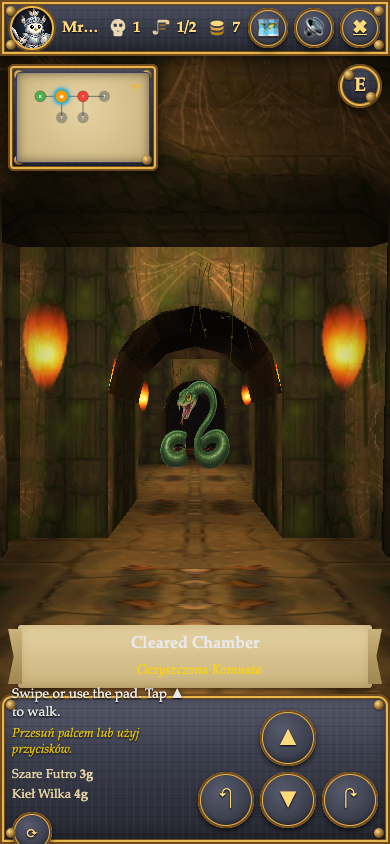
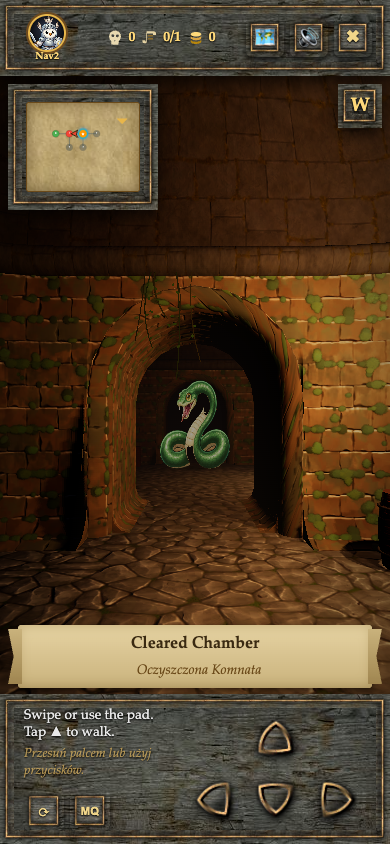
Docs: first-person lighting, textures and quality tiers; new screenshots; 3dtextures.me in the asset survey

diff --git a/docs/asset-libraries.md b/docs/asset-libraries.md
@@ -42,6 +42,7 @@ Style caveat: most fully-free packs are pixel art. Pixel tiles work for the isom
 |---|---|---|---|---|---|
 | ambientCG (all assets) | https://ambientcg.com (licence: https://docs.ambientcg.com/license/) | Creative Commons CC0 1.0 Universal ("may also include raw files directly in projects like video games") | Seamless PBR sets, JPG/PNG at 1K–16K. Verified examples: Bricks075A (photogrammetry stone/brick wall, 1K–16K), Lava004 (procedural seamless lava, 1K–8K). Also PavingStones*, Rock*, WoodPlanks*. | Direct source for `wall.png`, `floor.png`, `ceiling.png` and a lava texture; downscale 1K colour map to 512x512 and colour-grade to grey-blue. | None required (optional "Created using <asset> from ambientCG.com, licensed under CC0 1.0"). |
 | Poly Haven textures | https://polyhaven.com/textures (licence: https://polyhaven.com/license) | CC0 ("use our assets for any purpose, including commercial work") | PBR sets 1K–8K/16K in JPG/PNG/EXR + Blend/glTF. Verified: Castle Wall Slates (Rob Tuytel, 1K–8K, diffuse/normal/rough/AO/disp). Also Castle Wall Variation, Stone Brick Wall 001, Stone Block Wall, Brick & Block and Stone > Walls & Rubble categories. | Same use as ambientCG; castle-wall sets are the most "dungeon" looking. | None required. |
+| 3dtextures.me stylised textures (João Paulo "Gendo") | https://3dtextures.me (licence: https://3dtextures.me/about/) | CC0 ("All textures on this site are licensed as CC0"); checked 17 Sep 2026 | Hand-painted-look PBR sets (basecolor, normal, roughness, AO, height; mostly 1024 px) downloadable one by one from linked Google Drive folders. Dungeon fits: Stylized Stone Wall 001, Stylized Bricks 004 (mossy), Stylized Stone Floor 005/006, Stylized Wood Planks 002, Stylized Lava 001. Newer sets move to stylizedtextures.com. | **In use** by the first-person prototype (`www/assets/proto/fp/`, credits in `LICENSE.md` there): the painted look matches the monster art far better than photo textures. | None required (credited anyway). |
 | RPG Stone Wall Texture (ForKotLow) | https://opengameart.org/content/rpg-stone-wall-texture | CC0 | Single 512x512 seamless JPG (270 KB). | Drop-in `wall.png` candidate at the exact prototype size. | None required. |
 | Kenney – Isometric Miniature Dungeon (props) | see above | CC0 | Doors, gates, stairs, barrels. | Source for a gate/arch cut-out to build `gate_dragon.png`. | None. |
 | 117 Stone Wall Tilable Textures in 8 Themes (p0ss) | https://opengameart.org/content/117-stone-wall-tilable-textures-in-8-themes | **GPL 2.0 (viral)** | 117 stone wall/floor textures at 1024x1024 with normal maps; Cave, Ruins, Temple, Torture themes. One commenter reports imperfect tiling. | Great variety but GPL; avoid in the app. | GPL 2.0 obligations. |
@@ -106,7 +107,7 @@ Also: Kenney Fonts (https://kenney.nl/assets/kenney-fonts) – CC0, 11 pixel/rou
 1. **Kenney Fantasy UI Borders** (CC0) – 9-slice stone/gold frames for the whole HUD.
 2. **Free Fantasy Game GUI by pzUH** (CC0, vector) – cartoon buttons/windows to recolour into the grey-blue + gold palette.
 3. **game-icons.net** (CC-BY 3.0) – all HUD/inventory icons; one credit line covers thousands of icons.
-4. **ambientCG Bricks/Rock/PavingStones + Lava004** and **Poly Haven Castle Wall Slates** (CC0) – first-person `wall.png`, `floor.png`, `ceiling.png` and lava.
+4. **3dtextures.me stylised stone/brick/floor/wood/lava sets** (CC0, now used in first-person); **ambientCG** / **Poly Haven** (CC0) remain the photoreal alternative.
 5. **Kenney Isometric Miniature Dungeon** (CC0, 256-wide iso, walls/floors/stairs/props) – the isometric `wall_n/w`, `rim_*`, `entrance`, `treasure_*` pieces.
 6. **Screaming Brain 1000+ Isometric Floor Tiles** (CC0, native 128x64) – `floor_0..2.png`, `corridor.png` variants.
 7. **Cinzel + Almendra (+ MedievalSharp for titles)** (OFL) – readable medieval type with Polish diacritics.
@@ -118,7 +119,7 @@ Avoid for shipped files: Flare iso tilesets and LPC base assets (CC-BY-SA), p0ss
 
 The prototype pages probe for real art and fall back to procedural/derived art when a file is missing, so assets can be added one at a time. Expected filenames are listed in `docs/art-prompts.md`; in short:
 
-- **First-person** (`www/assets/proto/`): `wall.png`, `floor.png`, `ceiling.png` – 512x512, seamless, power-of-two PNG; `gate_dragon.png` – 512x512; `monsters/<id>.png` – 512x512 transparent (already present). To use an ambientCG/Poly Haven set: download the 1K JPG, take the colour (diffuse) map only, crop/resize to 512x512, colour-grade toward mossy grey-blue, export PNG. Keep the normal map aside; the three.js prototype only samples the colour map today.
+- **First-person** (`www/assets/proto/fp/`): per surface a colour map `<stem>_color.jpg` and a normal map `<stem>_normal.jpg` (OpenGL convention), 512x512 seamless, for the stems `stone_wall`, `mossy_bricks`, `flagstone_floor`, `wood_planks` (256 px is enough), plus `lava_color.jpg`. `FpTextures` falls back to procedural stone per surface when a file is missing. To swap in another CC0 set: take the 1K basecolor + normal, resize to 512 px, save as JPG, and credit it in `www/assets/proto/fp/LICENSE.md`. Monster billboards stay in `www/assets/proto/monsters/<id>.png`.
 - **Isometric** (`www/assets/proto/iso/`): `floor_0.png`, `floor_1.png`, `floor_2.png`, `corridor.png` – 128x64 diamonds with transparent corners; `wall_n.png`, `wall_w.png` – 128x96; `rim_s.png`, `rim_e.png` – 128x44; `entrance.png`, `portal.png`, `treasure_chest.png`, `treasure_open.png` – 96x96; `marker_unknown.png` – 64x64; `tok_knight_owl.png` – 128x128; `tok_dragon.png` – 256x256; `highlight_ring.png`, `reach_ring.png` – 128x64. Kenney's 256-wide iso tiles scale to 128 wide at 50%; the 64x32 Stone Soup tiles need 2x nearest-neighbour upscaling.
 - Keep originals and the licence text of each pack in a sibling `www/assets/proto/_sources/<pack>/` folder (or outside `www/` if it should not ship) so the provenance of every processed PNG is traceable.
 

diff --git a/README.md b/README.md
@@ -81,7 +81,7 @@ Two experimental presentations of the same dungeon live under `www/proto/` and a
 
 | Page | Engine | What it shows |
 |------|--------|---------------|
-| `proto/first-person.html` | three.js (r162, WebGL 1/2) | Eye-of-the-Beholder style vaulted chambers with arched doorways, torches and lava rivers: turn left/right, step forward/back; monsters stay hidden in the fog until you enter their chamber. |
+| `proto/first-person.html` | three.js (r162, WebGL 1/2) | Eye-of-the-Beholder style stone chambers with rounded corners, floor coves, vaulted ceilings and arched, coved passages, lit by real torch lights with shadows, plus lava rivers: turn left/right, step forward/back; monsters stay hidden in the fog until you enter their chamber. |
 | `proto/isometric.html` | Phaser 3.90 (WebGL, Canvas fallback) | Isometric dungeon with fog of war and dressed chambers (torches, banners, bones, gold, lava): unexplored rooms are dark, neighbours dimmed with a "?" marker; tap an adjacent room and Mr Owl walks there. |
 
 Both pages are built for phones: the engine canvas fills the screen and a 1990s-style HUD (stone-and-gold top bar with portrait and stats, framed minimap, parchment room ribbon, control dock) floats above it. Inside the 3D and isometric scenes monsters appear as extracted sprites (`www/assets/proto/monsters/`, produced by `tools/extract-sprites.py`); the encounter screens keep the full painted illustrations.
@@ -90,6 +90,11 @@ Both pages are built for phones: the engine canvas fills the screen and a 1990s-
   <img src="docs/screenshots/proto-fp-01-corridor.png" alt="First-person corridor" width="420">
   &nbsp;
   <img src="docs/screenshots/proto-fp-04-knockback.png" alt="First-person after a knockback" width="420">
+</p>
+<p align="center">
+  <img src="docs/screenshots/proto-fp-05-torches.png" alt="First-person torch-lit wall" width="280">
+  &nbsp;
+  <img src="docs/screenshots/proto-fp-06-dragon-shadow.png" alt="First-person dragon casting a torch shadow" width="560">
 </p>
 <p align="center">
   <img src="docs/screenshots/proto-iso-01-start.png" alt="Isometric start with fog of war" width="420">
@@ -106,7 +111,7 @@ npm run proto        # serves www/ on http://localhost:8080
 # open http://localhost:8080/proto/first-person.html or /proto/isometric.html
 ```
 
-Wall textures, tiles and props are drawn procedurally from the existing artwork's palette. Real art files can be dropped into `www/assets/proto/` (see [docs/art-prompts.md](docs/art-prompts.md) for the file list and generation prompts, and [docs/asset-libraries.md](docs/asset-libraries.md) for a survey of open-source medieval art packs and their licences). The engine bundles are vendored into `www/js/lib/`; rebuild them with `npm run vendor`.
+The first-person view uses stylised CC0 stone, brick, flagstone, wood and lava textures from 3dtextures.me (colour + normal maps, credits in `www/assets/proto/fp/LICENSE.md`), with procedural fallbacks. Each chamber has two wall torches (iron bracket, wooden handle, animated shader flame); a pool of point lights follows the torches nearest the player, and those in the current chamber cast shadows (walls, props, gate bars and monster silhouettes). Shadow maps only refresh when the lit set changes. Rendering quality adapts to the device: `low` (no shadows, 1x pixel ratio), `medium` (2 shadow-casting torches, 256 px maps, default on phones) and `high` (4, 512 px, default on desktop). It steps down automatically when frames are slow; force a tier with `?quality=low|medium|high` or the HQ/MQ/LQ button in the dock. The isometric view's tiles and props are drawn procedurally from the existing artwork's palette. Real art files can be dropped into `www/assets/proto/` (see [docs/art-prompts.md](docs/art-prompts.md) for the file list and generation prompts, and [docs/asset-libraries.md](docs/asset-libraries.md) for a survey of open-source medieval art packs and their licences). The engine bundles are vendored into `www/js/lib/`; rebuild them with `npm run vendor`.
 
 ## Third-party assets
 
